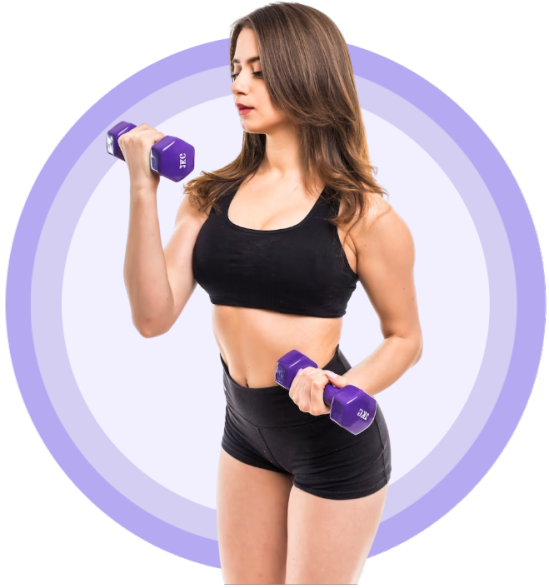
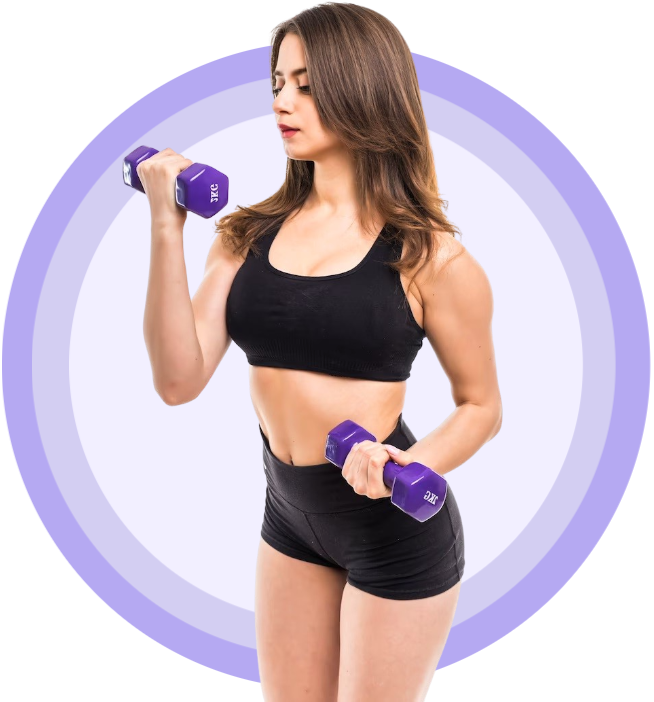
samall fiexes

diff --git a/src/components/homepage/landing.css b/src/components/homepage/landing.css
@@ -1,21 +1,29 @@
 #landing{
-    height: 94vh;
     font-family:'Lucida Sans', 'Lucida Sans Regular', 'Lucida Grande', 'Lucida Sans Unicode', Geneva, Verdana, sans-serif;
 }
-.landing-context{
+
+.landing__box{
+    height: 94vh;
+    width: 100%;
     display: flex;
-    position: absolute;
-    z-index: 20;
-    flex-direction: column;
-    padding: 8rem 2rem ;
-    height: 100%;
+    justify-content: flex-end;
+    position: relative;
 }
+
+.landing-context{
+    position: absolute;
+    left: 2%;
+    top: 14%;
+    display: flex;
+    flex-direction: column;
+}
+
 .landing-title{
     margin-bottom: 0.5em;
 }
+
 .landing-title h1{
     font-size: 4rem;
-    width: 80%;
     color: var(--dark);
 }
 
@@ -33,17 +41,19 @@
     margin: 1em 0;
     font-size: 1.5rem;
 }
+
 .landing-action{
     margin-top: 0.5em;
 }
 
-.landing-image{
-    position: absolute;
-    top:3rem;
-    z-index: 1;
-    right: 0rem;
-    min-width: 40%;
-    max-width: 50%;
+.landing__image--wrapper{
+    width: 54%;
+    margin-right: 1%;
+    margin-top: 1%;
+    background-image: url(/src/assets/homepage/hp2.png);
+    background-repeat: no-repeat;
+    background-position: right bottom;
+    background-size: contain;
 }
 
 .nav-arrow{
@@ -55,58 +65,87 @@
     color: var(--purple);
     padding: 1.1em 1.3em;
     border-radius: 50%;
-    transition: 0.3s all ease;
-    
+    transition: 0.3s all ease; 
 }
+
 .nav-arrow:hover{
     cursor: pointer;
     border: 1px solid var(--purple);
     transform: translateY(10px) ;
-    
 }
 
 
  /* MOBILE LOOK */
 
-@media screen and (max-width:800px) {
-    #landing{
-        height: auto;
+@media screen and (max-width: 1024px) {
+    .landing__image--wrapper{
+        width: 48%;
+        background-position: right center;
+    }
+
+    .landing-context{
+        top: 16%;
+        /* transform: translateY(-50%); */
+        left: 3%;
+    }
+
+    .landing-title h1{
+        font-size: 3.5rem;
+    }
+
+    .landing-text{
+        font-size: 1.250rem;
+    }
+}
+
+
+@media screen and (max-width:900px) {
+    .landing-context{
+        top: 5%;
+        left: 50%;
+        transform: translate(-50%);
+        align-items: center;
+        text-align: center;
+        width: 90%;
+    }
+
+    .landing__image--wrapper{
+        width: 100%;
+        height: 54%;
+        background-position: bottom center;
+    }
+
+    .landing__box{
+        flex-direction: column;
+        height: 92vh;
     }
    
-    .landing-context{
-        margin: 2rem auto;
-        padding: 0 1rem;
-        max-width: 100%;
-        text-align: center;
-        display: block;
-        position: initial;
-        justify-content: center;
-        align-items: center;
-        width: 100%;
-    }
     .landing-title h1{
         font-size: 2.5rem;
-        width: 100%;
     }
+
     .landing-title h2{
         font-size: 1.75rem;
     }
+
     .landing-text{
         font-size: 1.25rem;
+        margin: 0.85em 0;
     }
-   
-    .landing-image{
-        width:100%;
-        padding: 0 6rem;
-        margin: 0 auto;
-        position: initial;
-        max-width: 100%;
-    }
+
     .nav-arrow{
         display: none;
     }
 }
-@media screen and (max-width:500px){
+
+@media screen and (min-height: 770px) and (max-width:900px) {
+    .landing-action{
+        display: flex;
+        flex-direction: column;
+    }
+}
+
+@media screen and (max-width: 500px){
     .landing-title h1{
         font-size: 2rem;
     }
@@ -118,5 +157,19 @@
     }
     .landing-image{
         padding:0rem 4rem;
+    }
+}
+
+@media screen and (max-width:320px){
+    .landing-context{
+        top: 2%;
+    }
+
+    .landing-text{
+        font-size: 0.85rem;
+    }
+
+    .landing__image--wrapper{
+        height: 45%;
     }
 }

diff --git a/src/components/homepage/Landing.js b/src/components/homepage/Landing.js
@@ -9,33 +9,30 @@ const Landing = () => {
   return (
     <section id="landing">
       <div className="container">
-        <div className="landing-context">
-          <div className="landing-title">
-            <h1>
-              <span className="heading-pink">Body</span> and
-              <span className="heading-pink"> Mind</span>
-            </h1>
-            <h2>in perfect balance</h2>
+        <div className="landing__box">
+          <div className="landing-context">
+            <div className="landing-title">
+              <h1>
+                <span className="heading-pink">Body</span> and
+                <span className="heading-pink"> Mind</span>
+              </h1>
+              <h2>in perfect balance</h2>
+            </div>
+            <p className="landing-text">
+              Take care of your own body
+              <br /> don't wait the perfect time to start is now
+            </p>
+            <div className="landing-action">
+              <Button text="Get Started" type="button" isBackground={true} />
+              <Button text="Read More" type="button" isBackground={false} />
+            </div>
           </div>
-          <p className="landing-text">
-            Take care of your own body
-            <br /> don't wait the perfect time to start is now
-          </p>
-          <div className="landing-action">
-            <Button text="Get Started" type="button" isBackground={true} />
-            <Button text="Read More" type="button" isBackground={false} />
+          <div className="landing__image--wrapper">
           </div>
-        </div>
-        
-          <img
-            className="landing-image"
-            src={LandingImage}
-            alt="training-woman"
-          />
           <a href="#our-approach" className="nav-arrow">
             <FontAwesomeIcon icon={faArrowDown} />
           </a>
-        
+        </div>
       </div>
     </section>
   );

diff --git a/src/styles/index.css b/src/styles/index.css
@@ -28,7 +28,6 @@ img{
     margin: 0 auto;
     max-width: 1440px;
     width: 100%;
-    position: relative;
 }
 
 .heading-pink{
@@ -36,15 +35,16 @@ img{
 }
 
 .section__title{
-    font-size: 2.250rem;
+    font-size: 2.5rem;
     letter-spacing: 0.125rem;
     line-height: 1.3;
 }
 
 .section__text{
-    font-size: 1rem;
+    font-size: 1.125rem;
     letter-spacing: 0.5px;
     line-height: 1.2;
+    color: var(--light-gray);
 }
 
 @media screen and (max-width: 1024px) {
